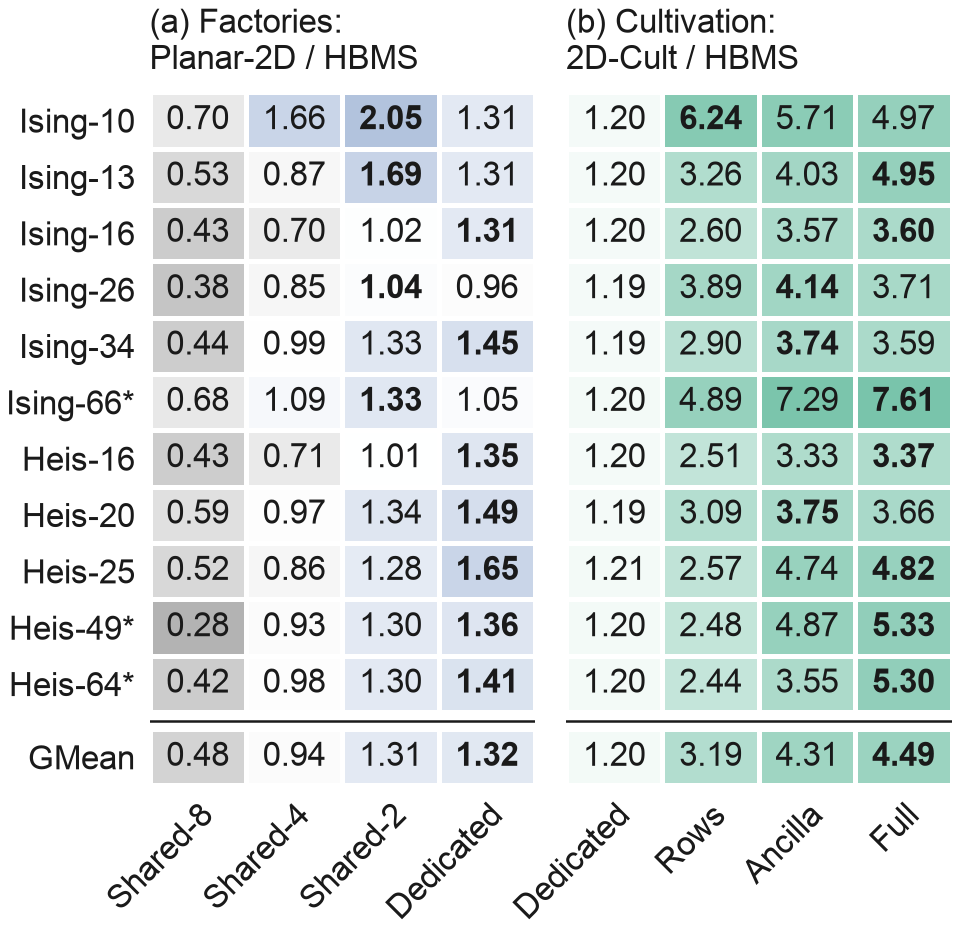
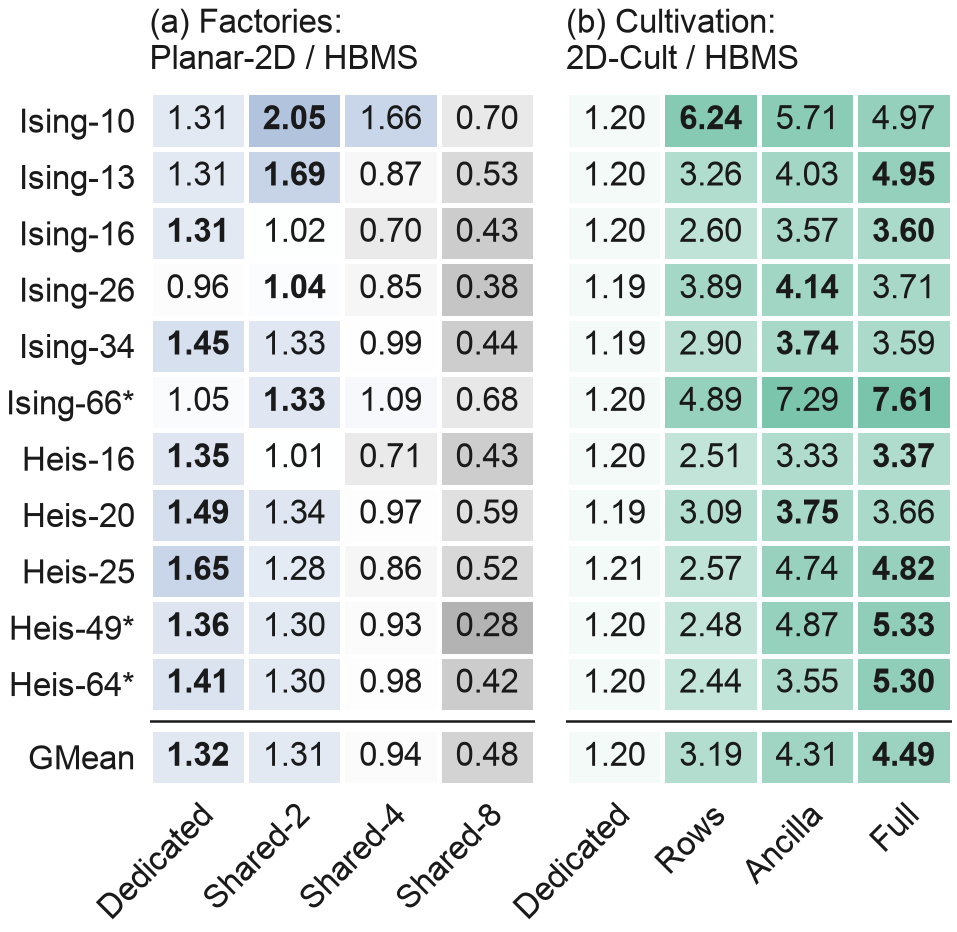
plot_eval.py: factory configurations start from Dedicated in eval_split and sources_table, as in eval_stv; eval_split legends upper left

diff --git a/scripts/revision/plot_eval.py b/scripts/revision/plot_eval.py
@@ -117,7 +117,7 @@ def eval_split(cells, benches, path):
                    (CULT, FILL["HBM-Cult"], "s", (9, 2), "(b) Cultivation: 2D-Cult / HBMS")]):
         fam = "HBM" if base == "D0-alt" else "HBM-Cult"
         bars = [("Q", "Qubits", ramp(fam, 3, 4), None), ("rounds", "Rounds", ramp(fam, 2, 4), "//////")]
-        order = specs[::-1] if base == "D0-alt" else specs  # fewest resources first
+        order = specs  # Dedicated first in both panels, as in eval_stv
         x = np.arange(len(order))
         w = 0.3
         for k, (key, mlab, fill, hatch) in enumerate(bars):
@@ -142,16 +142,16 @@ def eval_split(cells, benches, path):
         ax.set_axisbelow(True)
         ax.set_ylabel("Ratio")
         ax.text(0.0, 1.04, tag, transform=ax.transAxes, fontsize=8, va="bottom", ha="left")
-    for ax, loc in zip(axes, ("upper right", "upper left")):  # inside, as in eval_stv
+    for ax, loc in zip(axes, ("upper left", "upper left")):  # inside, above the Dedicated bars
         ax.legend(loc=loc, ncol=3, handlelength=1.0, columnspacing=0.8, handletextpad=0.3)
     for p in ([path] if isinstance(path, str) else path):
         fig.savefig(p)
     plt.close(fig)
     return ("Physical qubits (plain bars) and rounds (hatched bars) and STV (markers) of the planar baseline "
             "divided by those of HBMS, as geometric means over the circuits, per HBMS "
-            "configuration ordered by its number of magic-state resources per data slot "
-            "(below each name): (a) Planar-2D over HBMS Shared-8 to Dedicated, with "
-            "factories, and (b) 2D-Cult over HBMS Dedicated to Full, with cultivation patches. "
+            "configuration, with its number of magic-state resources per data slot below its "
+            "name: (a) Planar-2D over HBMS Dedicated to Shared-8, with factories, and (b) "
+            "2D-Cult over HBMS Dedicated to Full, with cultivation patches. "
             "Whiskers: the STV ratio's range over the circuits. Above the dashed line (1), "
             "HBMS uses fewer qubits or rounds, or has the lower STV. Every run at the smallest "
             "odd code distance that meets the program-error target.")
@@ -360,7 +360,7 @@ def sources_table(cells, benches, path):
     configuration (columns), one panel per kind of magic-state resource. Each panel shades
     towards its HBMS colour above 1 and towards its baseline's colour below 1."""
     from matplotlib.colors import LinearSegmentedColormap, Normalize
-    blocks = [(FACT[0], FACT[1][::-1], FILL["HBM"], "(a) Factories:\nPlanar-2D / HBMS"),
+    blocks = [(FACT[0], FACT[1], FILL["HBM"], "(a) Factories:\nPlanar-2D / HBMS"),
               (CULT[0], CULT[1], FILL["HBM-Cult"], "(b) Cultivation:\n2D-Cult / HBMS")]
     names = [label(b, cells[b]) for b in benches] + ["GMean"]
     n = len(benches)
@@ -400,8 +400,8 @@ def sources_table(cells, benches, path):
     plt.close(fig)
     return ("STV of the planar baseline divided by that of HBMS with the same kind of "
             "magic-state resource, per circuit and as the geometric mean (GMean), for every "
-            "HBMS configuration, ordered by magic-state resources per data slot: (a) Planar-2D "
-            "over HBMS Shared-8 to Dedicated, all with factories, and (b) 2D-Cult over HBMS "
+            "HBMS configuration, starting from Dedicated: (a) Planar-2D over HBMS Dedicated to "
+            "Shared-8, all with factories, and (b) 2D-Cult over HBMS "
             "Dedicated to Full, all with cultivation patches. Cells shade towards the HBMS "
             "colour above 1, where HBMS has the lower STV, and towards the baseline's colour "
             "below 1, each panel on its own logarithmic scale. Bold: the HBMS configuration with the lowest STV on the circuit, within "
